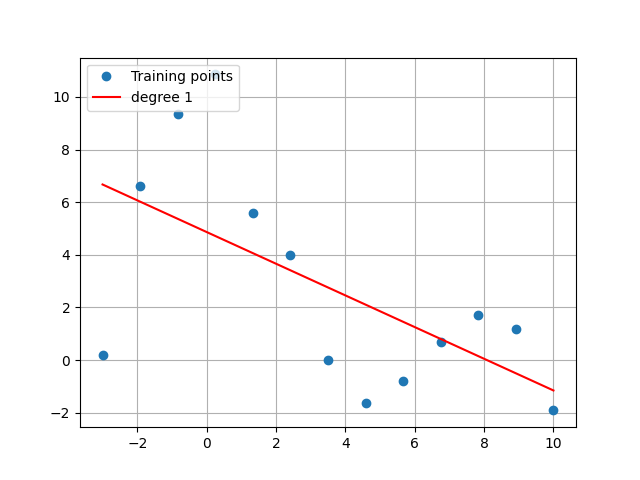
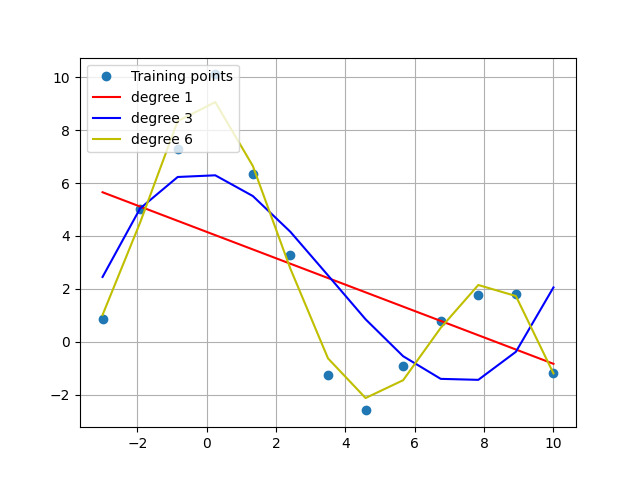
degres 1/3/6

diff --git a/tp1/main.py b/tp1/main.py
@@ -18,6 +18,17 @@ pipeline = make_pipeline(PolynomialFeatures(degree=1), Ridge())
 pipeline.fit(val[0].reshape(-1, 1), val[1])
 y_pred = pipeline.predict(val[0].reshape(-1, 1))
 plt.plot(val[0], y_pred, 'r-', label='degree 1')
+
+pipeline = make_pipeline(PolynomialFeatures(degree=3), Ridge())
+pipeline.fit(val[0].reshape(-1, 1), val[1])
+y_pred = pipeline.predict(val[0].reshape(-1, 1))
+plt.plot(val[0], y_pred, 'b-', label='degree 3')
+
+pipeline = make_pipeline(PolynomialFeatures(degree=6), Ridge())
+pipeline.fit(val[0].reshape(-1, 1), val[1])
+y_pred = pipeline.predict(val[0].reshape(-1, 1))
+plt.plot(val[0], y_pred, 'y', label='degree 6')
+
 plt.legend(loc='upper left')
 plt.savefig('pizzas_pred.png')
 
